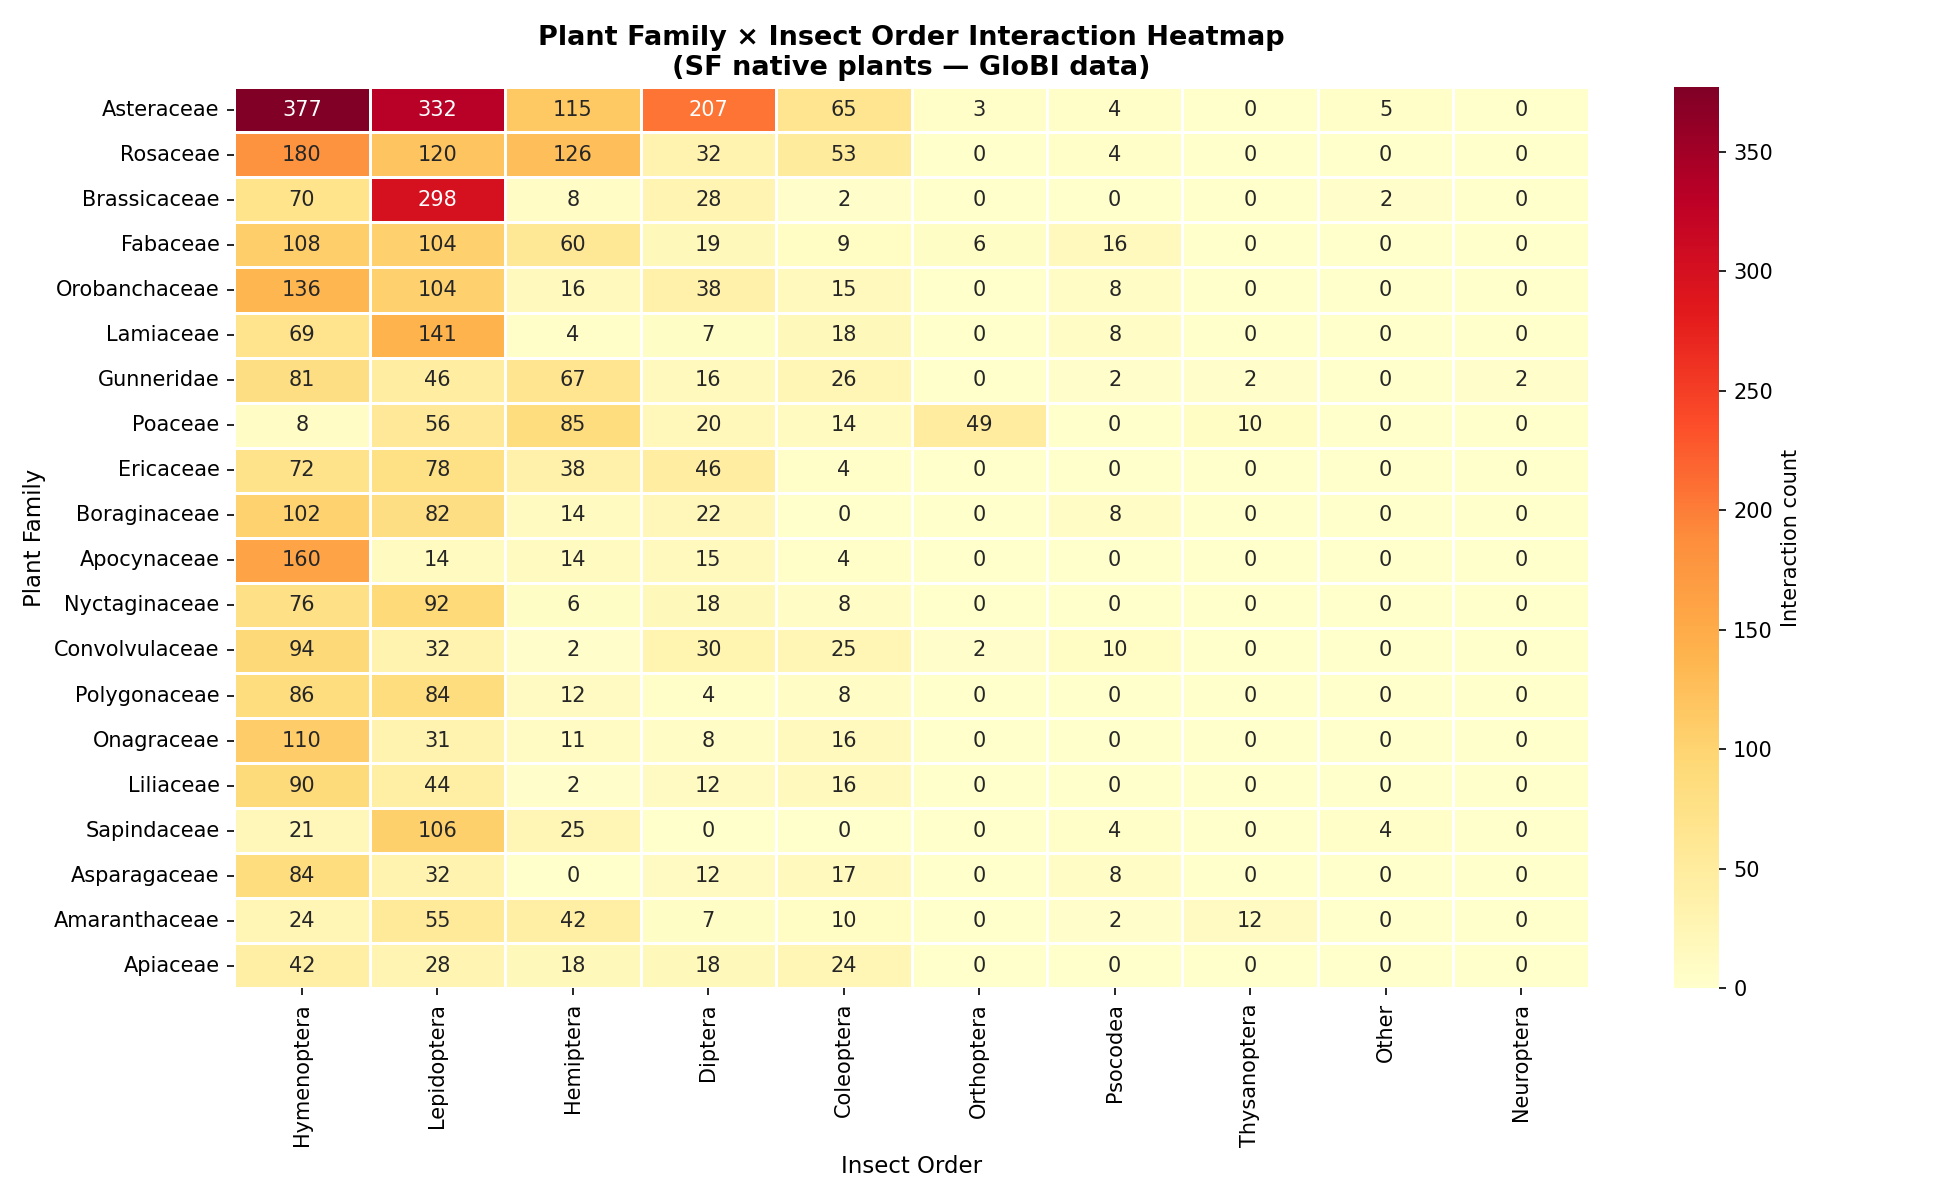
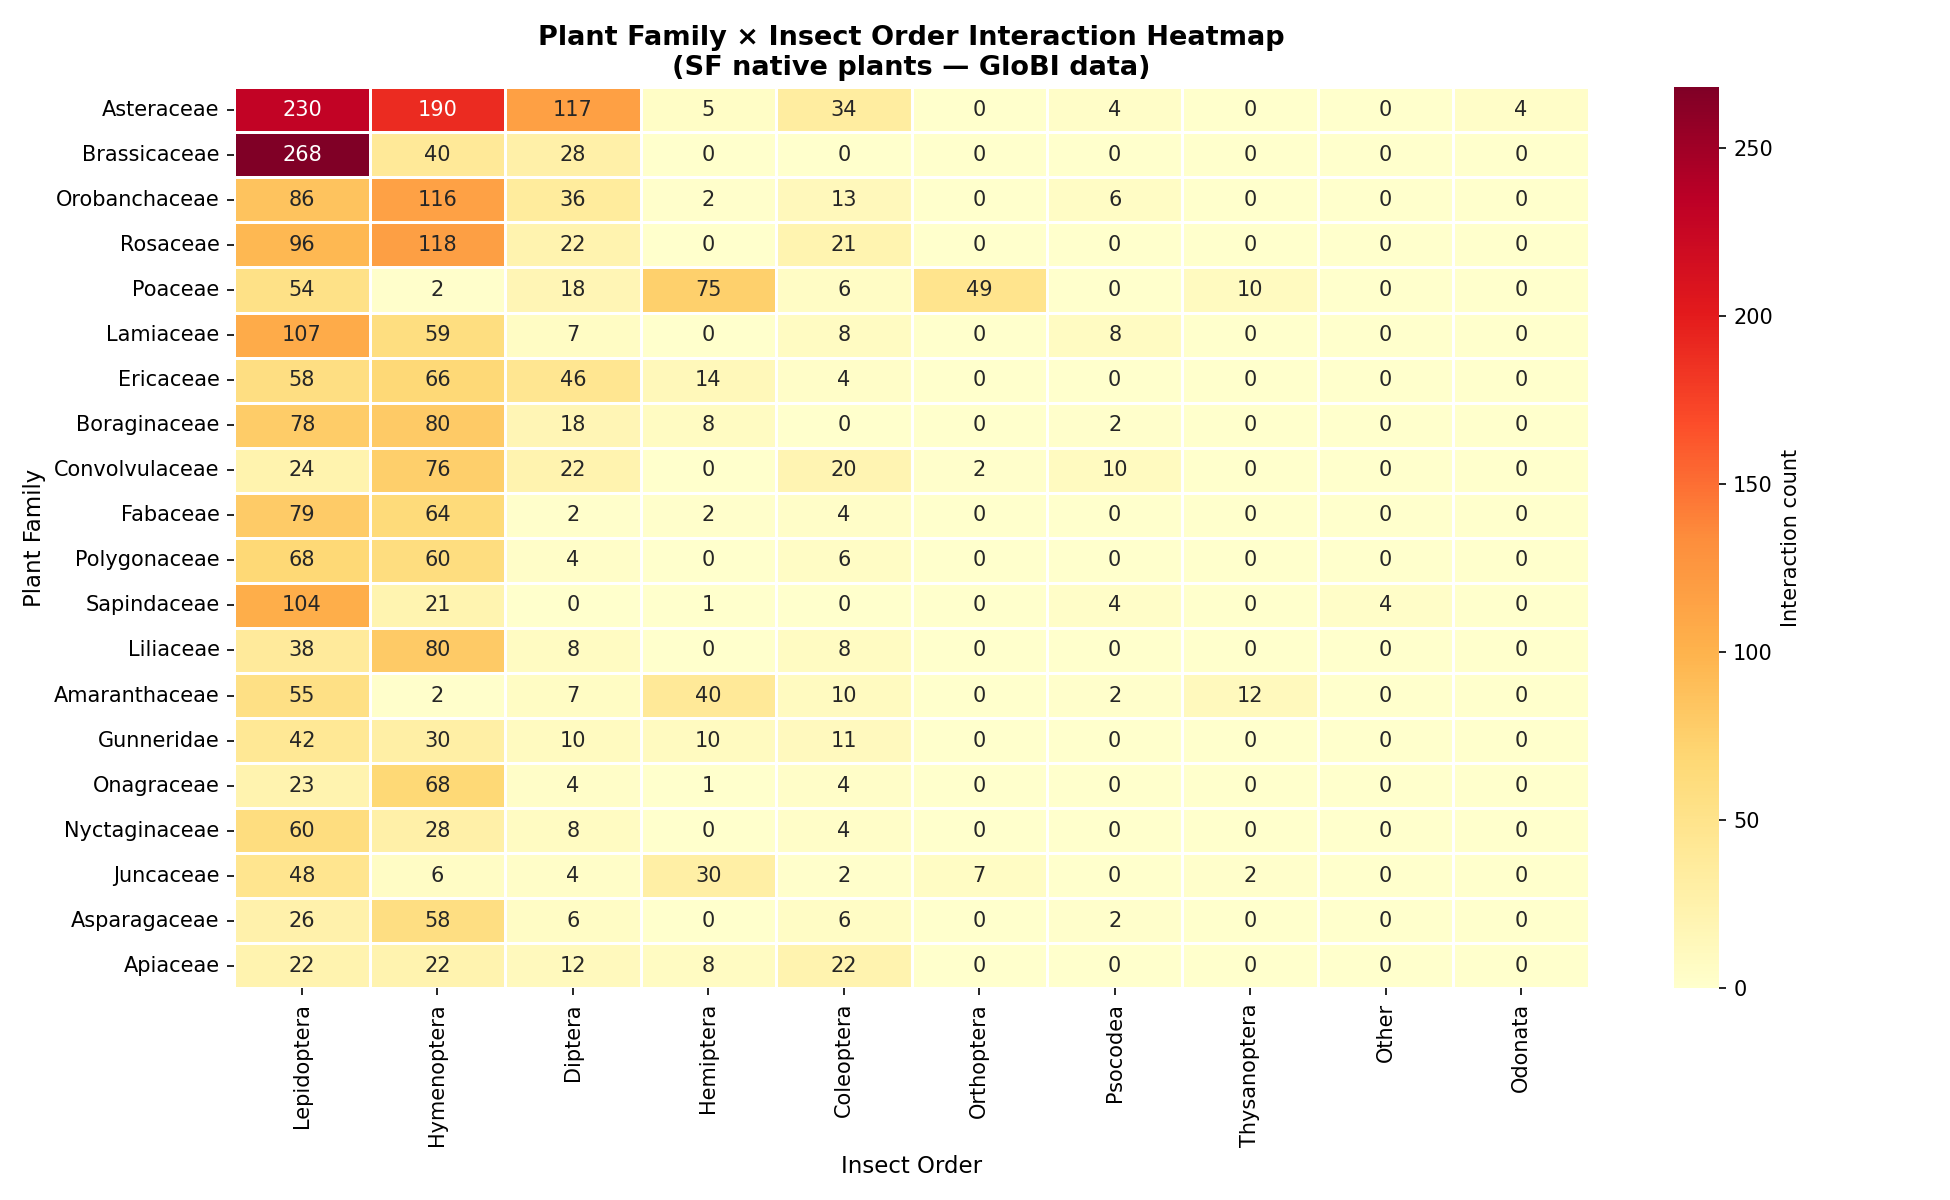
Remove all co-occurrence and generic interaction types globally
Drops interactsWith, coOccursWith, adjacentTo, visits/visitedBy,
livesOn/livedOnBy, and ecologicallyRelatedTo across all taxa pairs.
Dataset goes from 24k → 10,979 interactions, all with specific
ecological meaning (trophic, parasitic, pollination, pathogen, mutualist).

https://claude.ai/code/session_01AXjvKhmSgVRLjYWUQLx3JS

diff --git a/insect-web/analyze.py b/insect-web/analyze.py
@@ -83,6 +83,14 @@ def is_plant(path: str) -> bool:
 
 PARASITIC_TYPES = {"parasiteOf", "hasParasite", "hostOf", "hasHost"}
 
+# Vague / co-occurrence types with no specific ecological meaning
+NOISE_TYPES = {
+    "interactsWith", "coOccursWith", "adjacentTo",
+    "visits", "visitedBy",
+    "livesOn", "livedOnBy",
+    "ecologicallyRelatedTo",
+}
+
 # ── load data ──────────────────────────────────────────────────────────────────
 records = json.loads(RAW_FILE.read_text())
 animal_records = json.loads(ANIMAL_RAW_FILE.read_text()) if ANIMAL_RAW_FILE.exists() else []
@@ -109,14 +117,23 @@ for r in records:
 # drop rows missing both names
 rows = [r for r in rows if r["src_name"] or r["tgt_name"]]
 
-# drop non-parasitic plant↔plant interactions (co-occurrence noise)
+# drop non-parasitic plant↔plant interactions
 before = len(rows)
 rows = [
     r for r in rows
     if not (is_plant(r["src_path"]) and is_plant(r["tgt_path"])
             and r["itype"] not in PARASITIC_TYPES)
 ]
-print(f"Clean rows: {len(rows)} (removed {before - len(rows)} non-parasitic plant↔plant)")
+pp_removed = before - len(rows)
+
+# drop all globally vague / co-occurrence interaction types
+before = len(rows)
+rows = [r for r in rows if r["itype"] not in NOISE_TYPES]
+noise_removed = before - len(rows)
+
+print(f"Clean rows: {len(rows)} "
+      f"(removed {pp_removed} non-parasitic plant↔plant, "
+      f"{noise_removed} co-occurrence/generic)")
 
 # classify each endpoint
 for r in rows:
